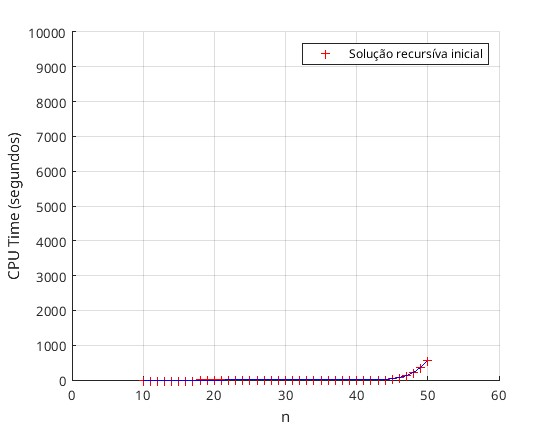
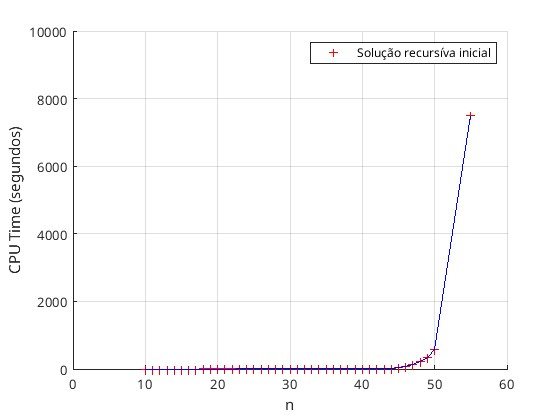
4-12 foto teste do stor do Mister Madurex)

diff --git a/SpeedRun/SR_Final/MatLab/PC3.m b/SpeedRun/SR_Final/MatLab/PC3.m
@@ -1,6 +1,47 @@
 clear all;
-nVector = [10:1:50]
-resultVector = []';
+nVector = [10:1:50 55]
+resultVector = [3.500e-06
+                6.054e-06
+                6.806e-06
+                1.001e-05
+                1.547e-05
+                2.358e-05
+                3.843e-05
+                6.640e-05
+                1.074e-04
+                1.971e-04
+                2.818e-04
+                4.744e-04
+                7.845e-04
+                1.310e-03
+                2.171e-03
+                3.539e-03
+                5.960e-03
+                9.959e-03
+                1.625e-02
+                2.542e-02
+                4.232e-02
+                7.050e-02
+                1.159e-01
+                1.932e-01
+                3.226e-01
+                5.358e-01
+                8.908e-01
+                1.396e+00
+                1.426e+00
+                2.382e+00
+                4.222e+00
+                6.864e+00
+                1.141e+01
+                1.883e+01
+                3.093e+01
+                5.253e+01
+                8.489e+01
+                1.410e+02
+                2.558e+02
+                3.959e+02
+                6.811e+02
+                7.359e+03]';
 
 figure(1);
 hold on;

diff --git a/SpeedRun/SR_Final/MatLab/PC2.m b/SpeedRun/SR_Final/MatLab/PC2.m
@@ -1,5 +1,5 @@
 clear all;
-nVector = [10:1:50]
+nVector = [10:1:50 55]
 resultVector = [4.600e-06
                 8.898e-06
                 1.059e-05
@@ -40,7 +40,8 @@ resultVector = [4.600e-06
                 1.288e+02
                 2.118e+02
                 3.450e+02
-                5.707e+02]';
+                5.707e+02
+                7.509e+03]';
 
 figure(1);
 hold on;
